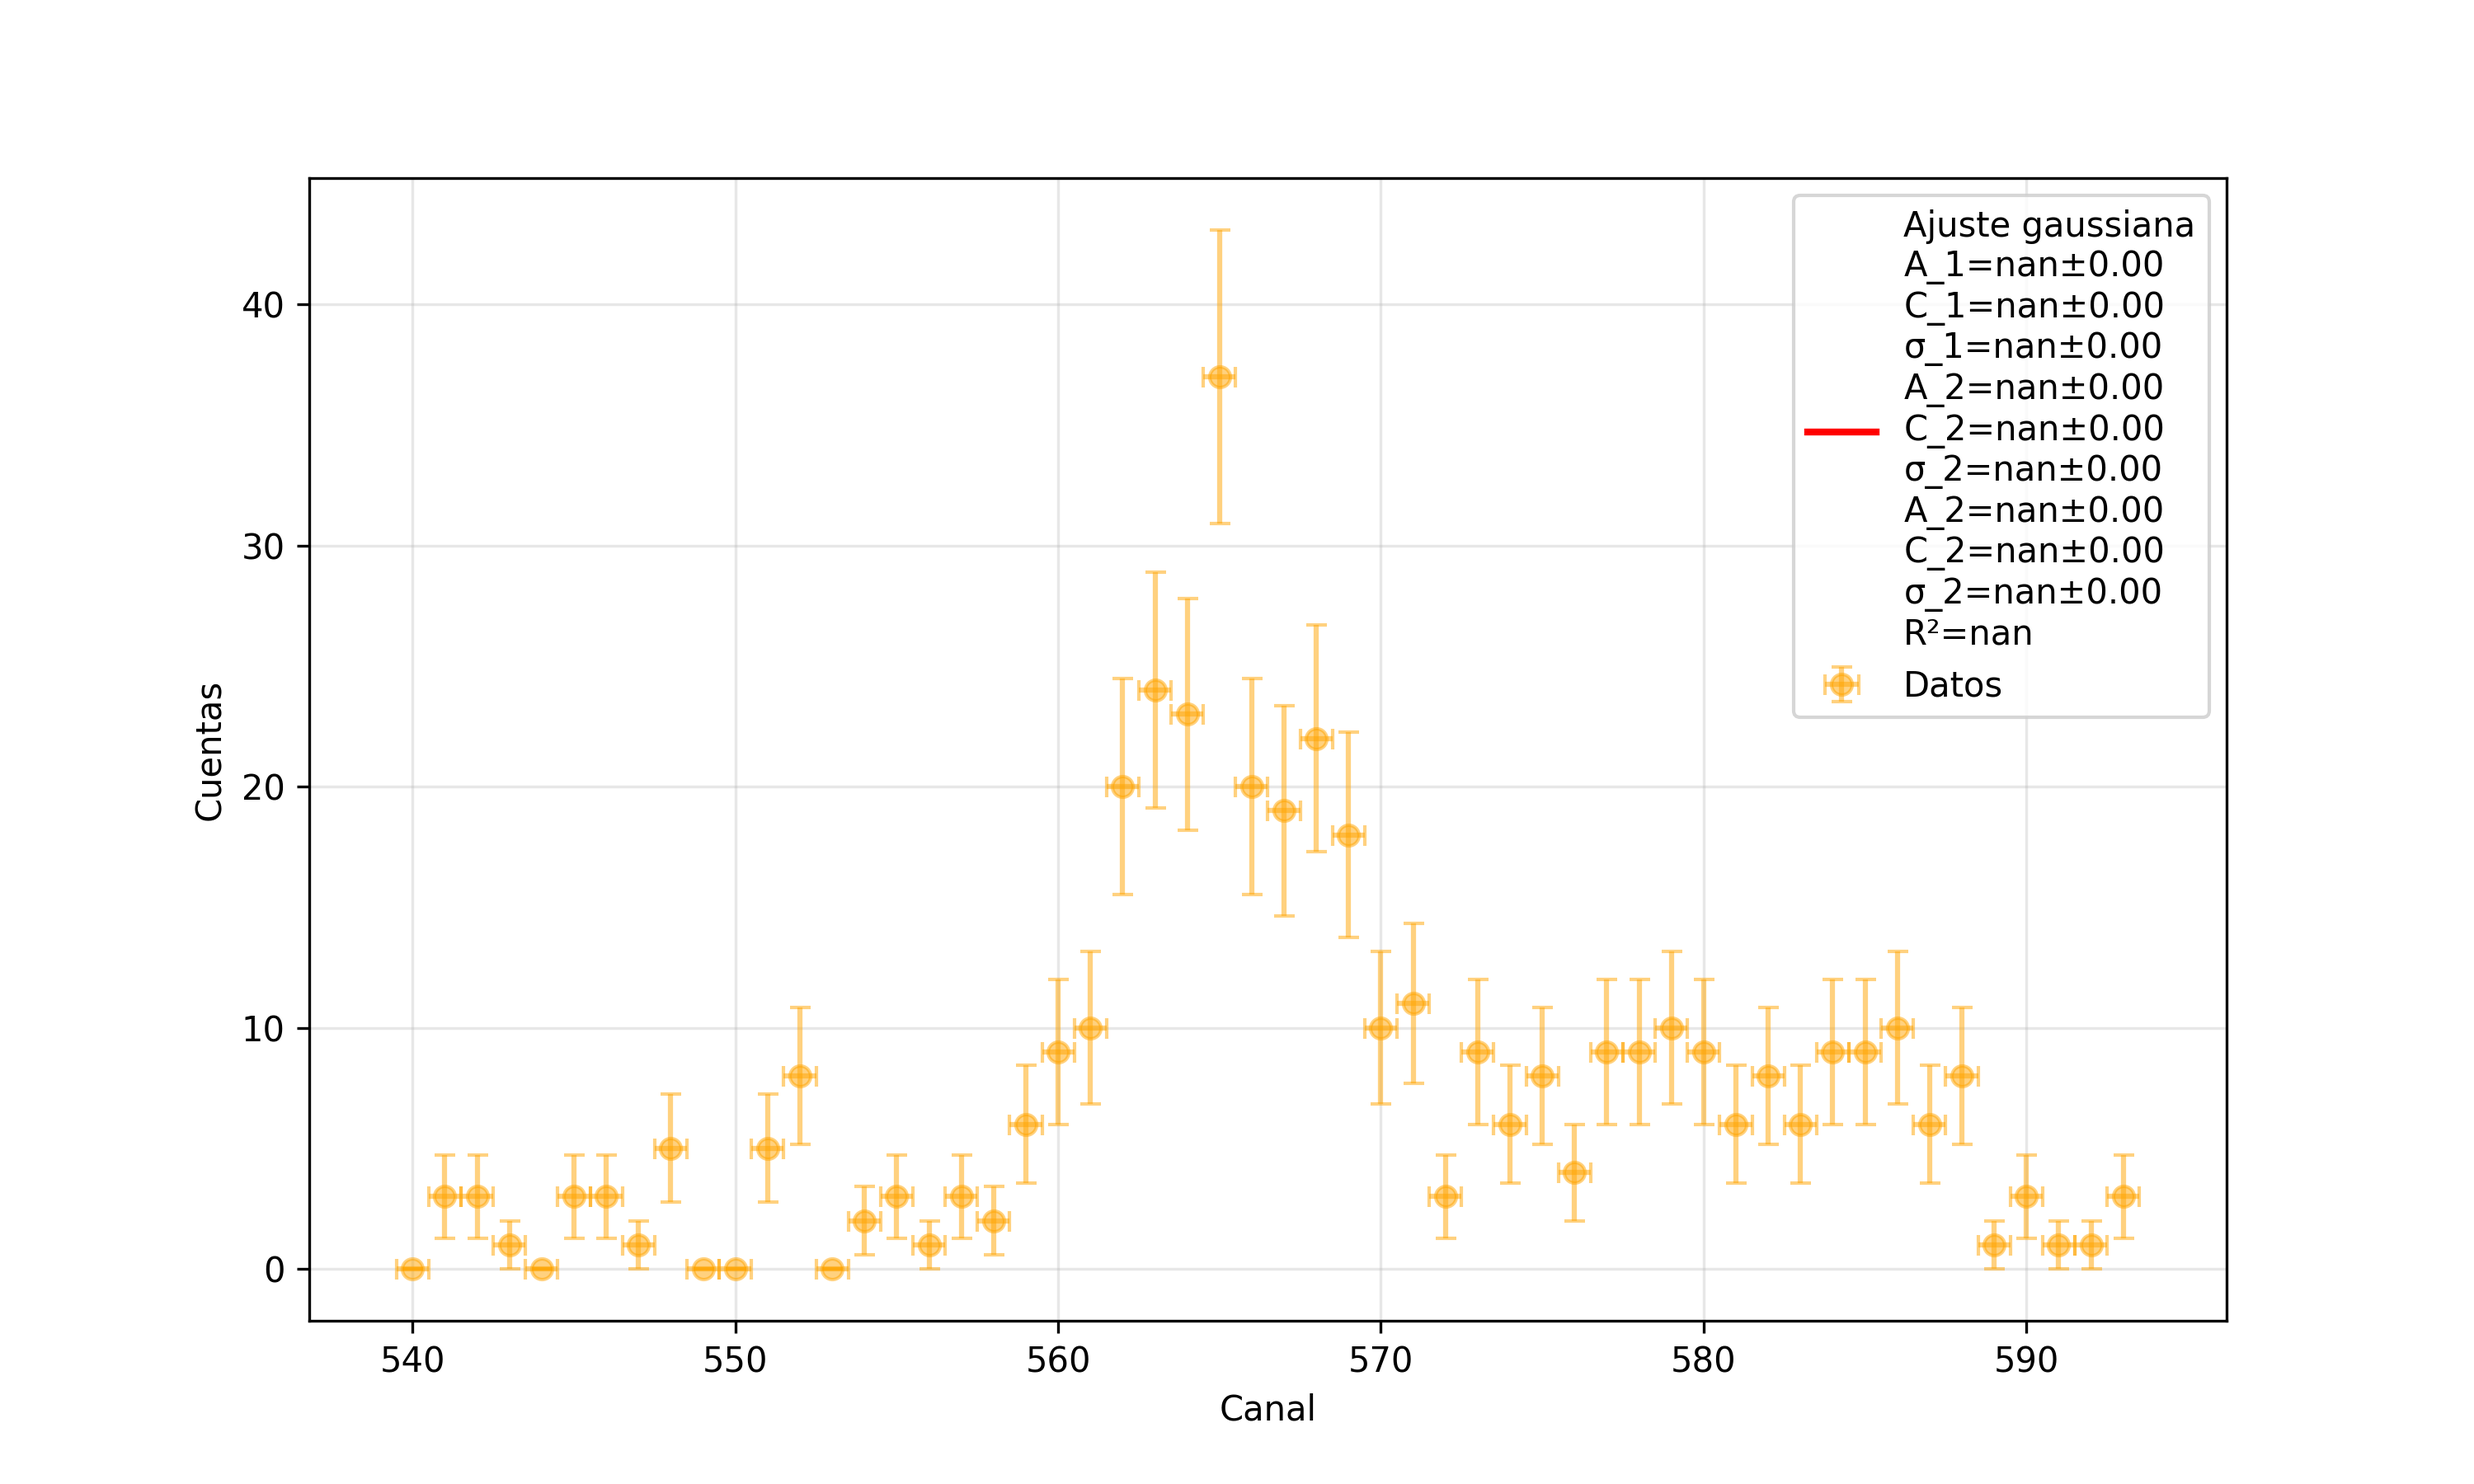
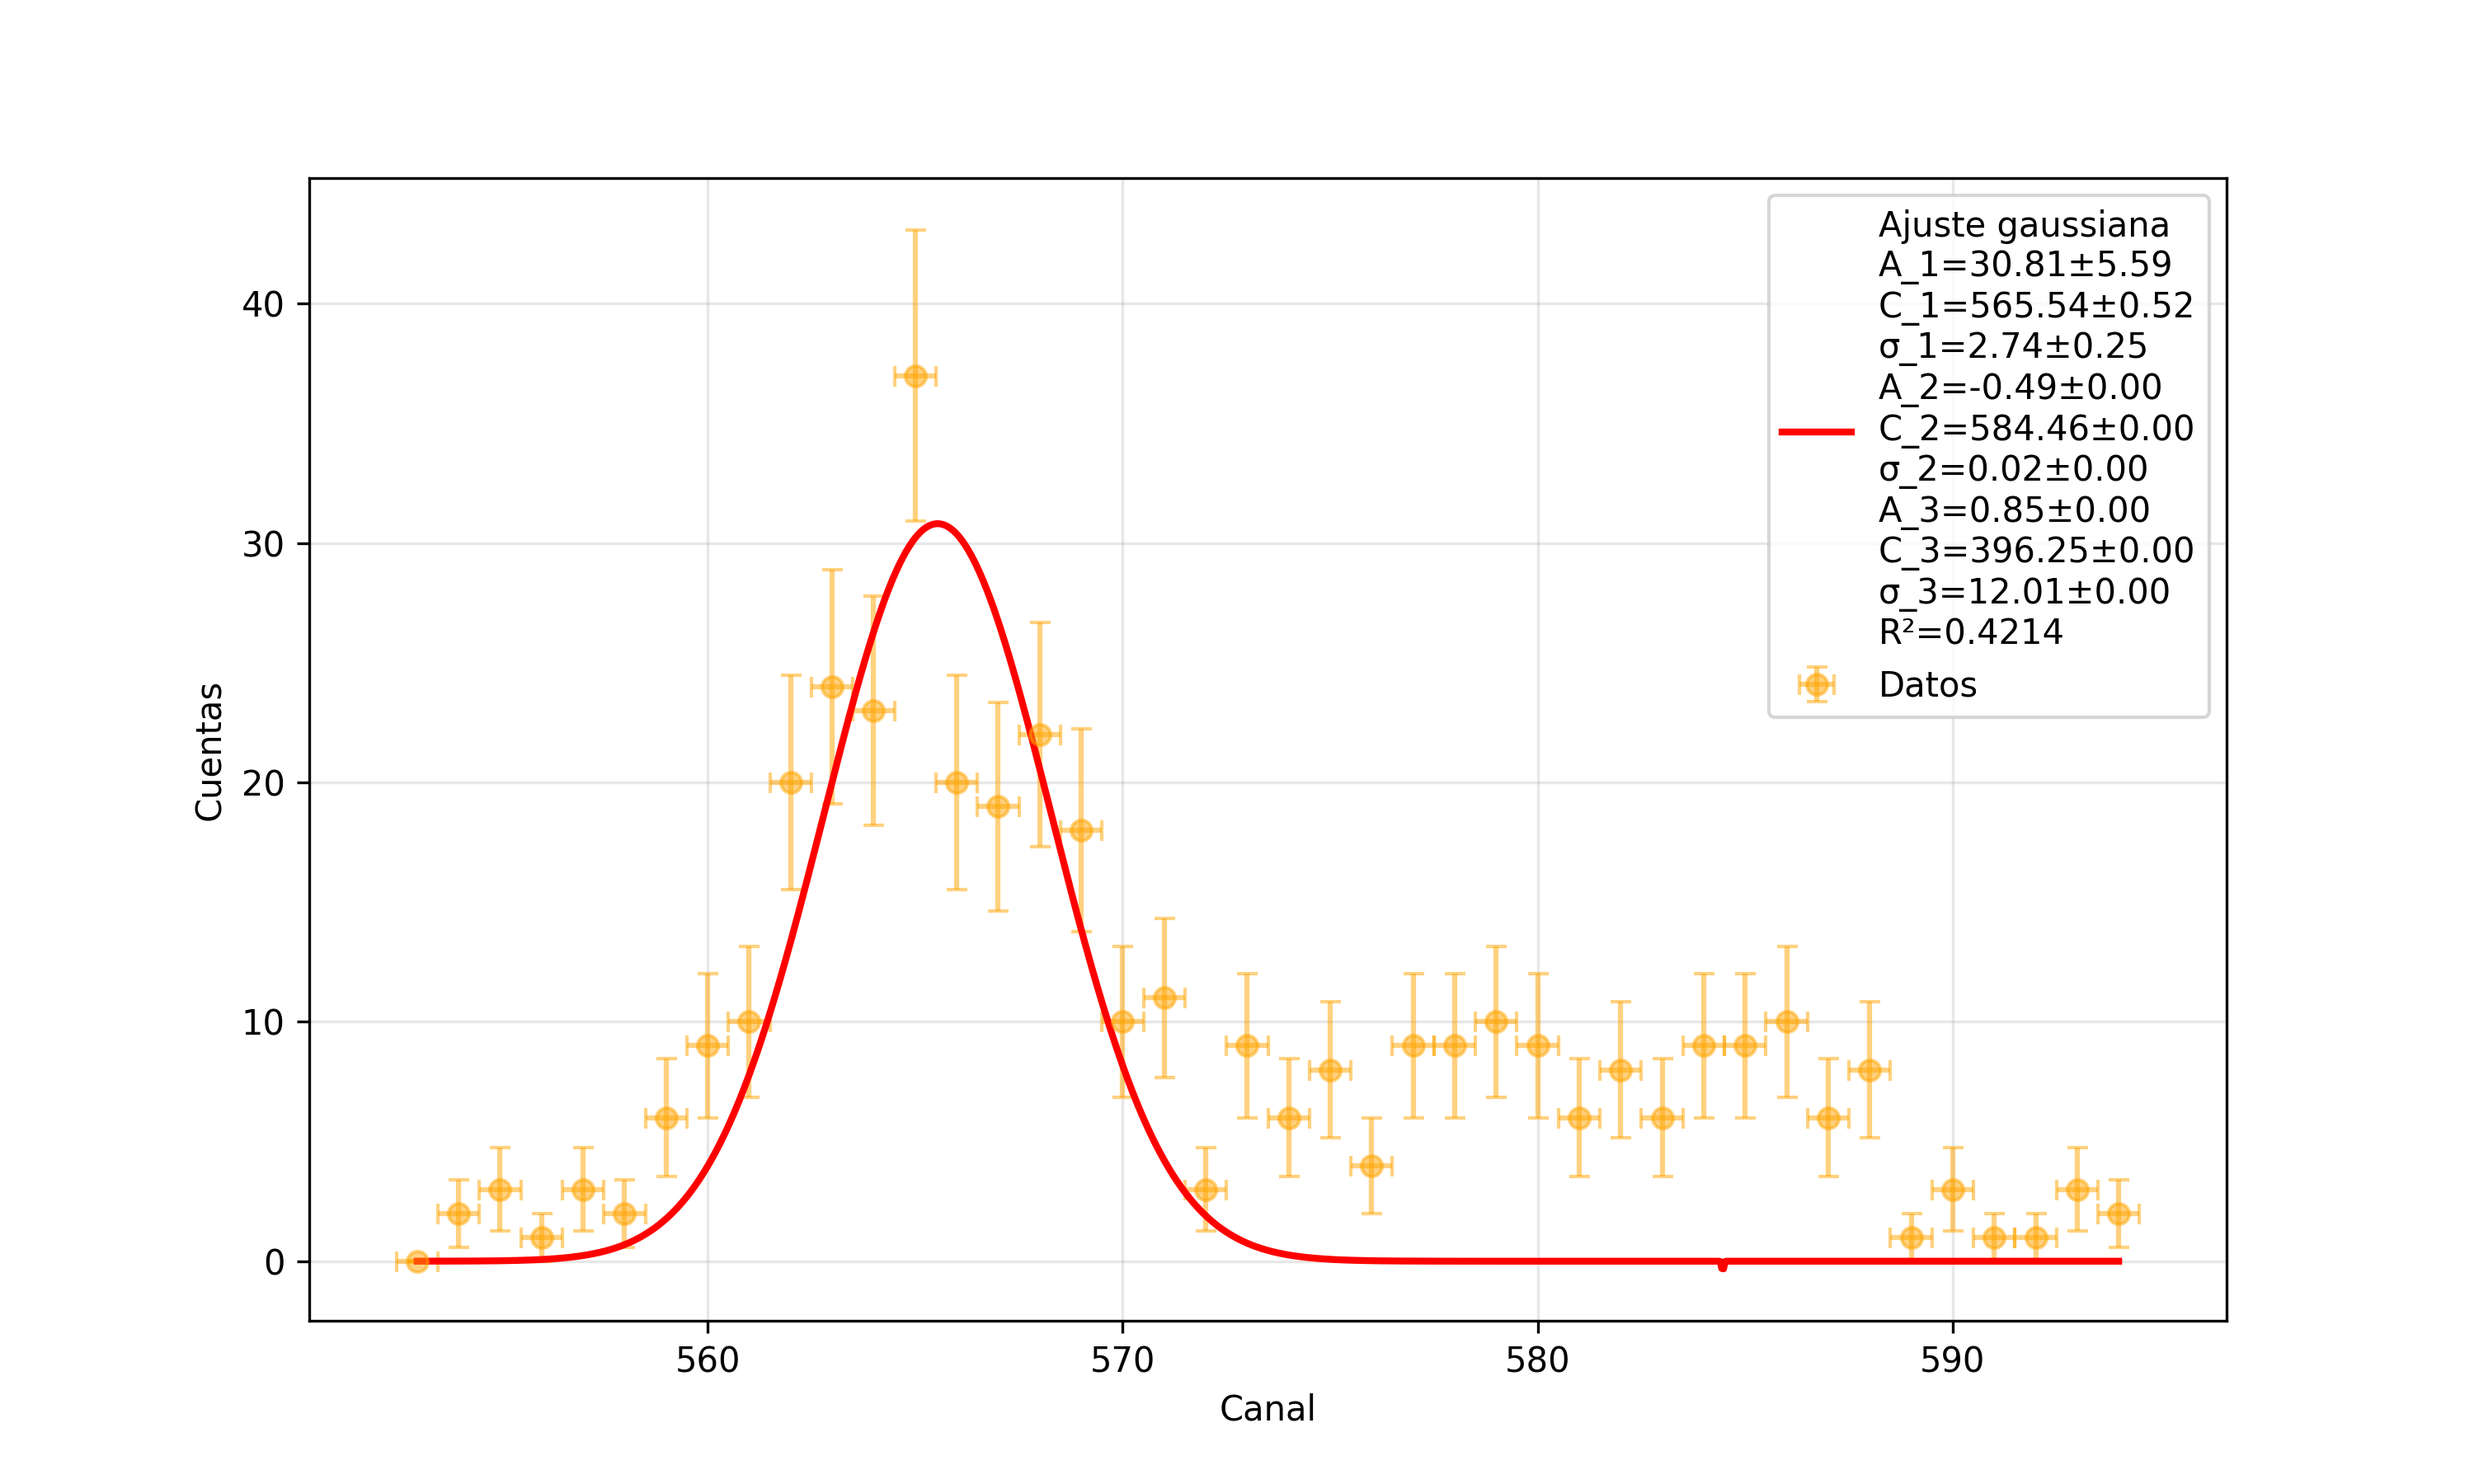
Calibración inicial tp6

diff --git a/Experimento VI/Análisis.py b/Experimento VI/Análisis.py
@@ -6,6 +6,68 @@ import matplotlib.pyplot as plt
 from scipy.odr import ODR, Model, RealData
 from scipy.special import erf
 
+def fit_lineal(x, y, err_x=None, err_y=None):
+    # Conversión a arrays
+    x = np.array(x, dtype=float)
+    y = np.array(y, dtype=float)
+
+    # Manejo de errores
+    if err_x is None:
+        err_x = np.zeros_like(x)
+    elif np.isscalar(err_x):
+        err_x = np.full_like(x, err_x, dtype=float)
+
+    if err_y is None:
+        err_y = np.zeros_like(y)
+    elif np.isscalar(err_y):
+        err_y = np.full_like(y, err_y, dtype=float)
+
+    # Modelo lineal
+    def f_lineal(beta, x):
+        m, b = beta
+        return m * x + b
+
+    modelo = Model(f_lineal)
+    data = RealData(x, y, sx=err_x, sy=err_y)
+    betai = [2.0, 0.0]
+
+    odr = ODR(data, modelo, beta0=betai)
+    out = odr.run()
+
+    # Parámetros ajustados
+    m, b = out.beta
+    sm, sb = out.sd_beta
+
+    # Predicción del modelo
+    y_pred = f_lineal(out.beta, x)
+
+    # Coeficiente de determinación R²
+    ss_res = np.sum((y - y_pred) ** 2)
+    ss_tot = np.sum((y - np.mean(y)) ** 2)
+    r2 = 1 - ss_res / ss_tot
+
+    plt.figure(figsize=(10,6))
+    plt.errorbar(x, y, xerr=err_x, yerr=err_y, 
+                     fmt='o', alpha=0.5, label='Datos', 
+                     color='orange', capsize=3)
+        
+    x_fit = np.linspace(np.min(x), np.max(x), 1000)
+    y_fit = f_lineal(out.beta, x_fit)
+        
+    plt.plot(x_fit, y_fit, 'r-', linewidth=2, 
+                 label=(f'Ajuste ODR\n'
+                        f'm={m:.2f}±{sm:.2f}\n'
+                        f'b={b:.2f}±{sb:.2f}\n'
+                        f'R²={r2:.4f}'))
+        
+    plt.xlabel('Canal')
+    plt.ylabel('Energía [keV]')
+    plt.legend()
+    plt.grid(True, alpha=0.3)
+    plt.show()
+
+    return m, sm, b, sb, r2
+
 def graficar(x, y, xlabel, ylabel):
     plt.figure(figsize=(8,5))
     plt.scatter(x, y, marker='.')
@@ -413,9 +475,9 @@ def ajustar_gaussiana_triple_odr(x_data, y_data,
                         f'A_2={parametros[3]:.2f}±{errores[3]:.2f}\n'
                         f'C_2={parametros[4]:.2f}±{errores[4]:.2f}\n'
                         f'σ_2={parametros[5]:.2f}±{errores[5]:.2f}\n'
-                        f'A_2={parametros[6]:.2f}±{errores[6]:.2f}\n'
-                        f'C_2={parametros[7]:.2f}±{errores[7]:.2f}\n'
-                        f'σ_2={parametros[8]:.2f}±{errores[8]:.2f}\n'
+                        f'A_3={parametros[6]:.2f}±{errores[6]:.2f}\n'
+                        f'C_3={parametros[7]:.2f}±{errores[7]:.2f}\n'
+                        f'σ_3={parametros[8]:.2f}±{errores[8]:.2f}\n'
                         f'R²={r2:.4f}'))
         
         plt.xlabel('Canal')
@@ -432,6 +494,22 @@ def ajustar_gaussiana_triple_odr(x_data, y_data,
         plt.show()
     
     return parametros, errores, output, gaussiana_ajustada
+
+def calibrar(canal, sigma_canal, m, b, sm, sb):
+    
+    canal = np.array(canal, dtype=float)
+    E = m * canal + b
+
+    if sigma_canal is None:
+        sigma_canal = np.zeros_like(canal, dtype=float)
+    else:
+        if np.isscalar(sigma_canal):
+            sigma_canal = np.full_like(canal, float(sigma_canal))
+
+    # Propagación: derivadas: dE/dm = canal, dE/db = 1, dE/dcanal = m
+    # Var(E) ≈ (canal^2 * Var(m)) + Var(b) + (m^2 * Var(canal))
+    sigma_E = np.sqrt((canal**2) * (sm**2) + (sb**2) + (m**2) * (sigma_canal**2))
+    return E, sigma_E
 
 ruta = "./Experimento VI/Datos/"
 
@@ -455,26 +533,33 @@ graficar(x_Am, y_Am, "Canal", "Cuentas")
 #graficar_con_error(x_Am, y_Am, x_Am_err, y_Am_err, "Canales", "Cuentas")
 
 #Gaussianas para calibración inicial
-#La1
-corteLa1_Am=[367, 394]
-p0_La1_Am=[0,1,30,379,3]
-xLa1_Am, yLa1_Am, xerrLa1_Am, yerrLa1_Am = cortar_datos(corteLa1_Am[0], corteLa1_Am[1], x_Am, y_Am, x_Am_err, y_Am_err)
-parametrosLa1_Am, erroresLa1_Am, _, _ = ajustar_gaussiana_recta_odr(xLa1_Am, yLa1_Am, xerrLa1_Am, yerrLa1_Am, p0_La1_Am, False)
+#La
+corteLa_Am=[367, 394]
+p0_La_Am=[0,1,30,379,3]
+xLa_Am, yLa_Am, xerrLa_Am, yerrLa_Am = cortar_datos(corteLa_Am[0], corteLa_Am[1], x_Am, y_Am, x_Am_err, y_Am_err)
+parametrosLa_Am, erroresLa_Am, _, _ = ajustar_gaussiana_recta_odr(xLa_Am, yLa_Am, xerrLa_Am, yerrLa_Am, p0_La_Am, True)
 
 #Lb1 y Lb2
 corteLb_Am=[445, 500]
 p0_Lb_Am=[0,459,3,30,481,3]
 xLb_Am, yLb_Am, xerrLb_Am, yerrLb_Am = cortar_datos(corteLb_Am[0], corteLb_Am[1], x_Am, y_Am, x_Am_err, y_Am_err)
-parametrosLb_Am, erroresLb_Am, _, _ = ajustar_gaussiana_doble_odr(xLb_Am, yLb_Am, xerrLb_Am, yerrLb_Am, p0_Lb_Am, False)
+parametrosLb_Am, erroresLb_Am, _, _ = ajustar_gaussiana_doble_odr(xLb_Am, yLb_Am, xerrLb_Am, yerrLb_Am, p0_Lb_Am, True)
 
 #Ma
 corteMa_Am=[60, 120]
 p0_Ma_Am=[0,1,0,91,3]
 xMa_Am, yMa_Am, xerrMa_Am, yerrMa_Am = cortar_datos(corteMa_Am[0], corteMa_Am[1], x_Am, y_Am, x_Am_err, y_Am_err)
-parametrosMa_Am, erroresMa_Am, _, _ = ajustar_gaussiana_recta_odr(xMa_Am, yMa_Am, xerrMa_Am, yerrMa_Am, p0_Ma_Am, False)
+parametrosMa_Am, erroresMa_Am, _, _ = ajustar_gaussiana_recta_odr(xMa_Am, yMa_Am, xerrMa_Am, yerrMa_Am, p0_Ma_Am, True)
 
 #Lg
-corteLg_Am=[545, 587]
-p0_Lg_Am=[0,1,10,565,5]
+corteLg_Am=[553, 580]
+p0_Lg_Am=[0,1,24,564,3]
 xLg_Am, yLg_Am, xerrLg_Am, yerrLg_Am = cortar_datos(corteLg_Am[0], corteLg_Am[1], x_Am, y_Am, x_Am_err, y_Am_err)
 parametrosLg_Am, erroresLg_Am, _, _ = ajustar_gaussiana_recta_odr(xLg_Am, yLg_Am, xerrLg_Am, yerrLg_Am, p0_Lg_Am, True)
+
+E=[3.250,13.946,16.794,17.751,20.784]
+errE=[0.001,0.001,0.001,0.001,0.001]
+canal=[parametrosMa_Am[3],parametrosLa_Am[3],parametrosLb_Am[1],parametrosLb_Am[4],parametrosLg_Am[3]]
+errCanal=[erroresMa_Am[3],erroresLa_Am[3],erroresLb_Am[1],erroresLb_Am[4],erroresLg_Am[3]]
+
+fit_lineal(canal,E,errCanal,errE)
